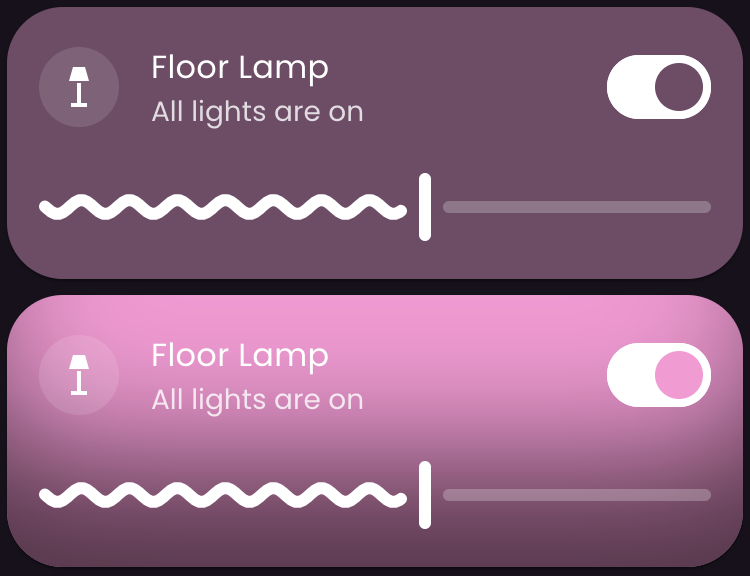
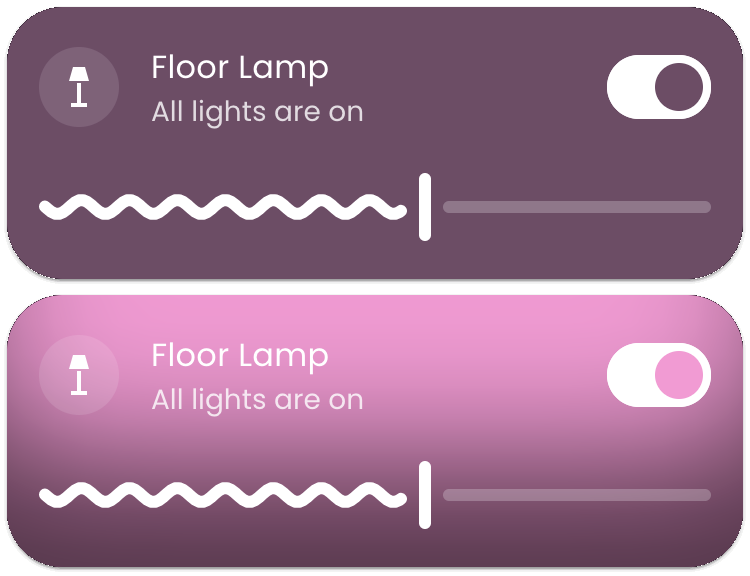
docs: transparent backgrounds for the tint and wavy slider images
The tint and wavy slider screenshots had opaque panel backgrounds. The
light wavy slider animation is now a WebP, so its rounded corners can be
transparent. The tint comparison uses side-by-side images instead of a
table, so GitHub no longer squeezes the right-hand image.

Changed region(s): [[0.0, 0.0, 1.0, 1.0]]

diff --git a/README.md b/README.md
@@ -106,10 +106,13 @@ Every option, including tap and hold actions, colors and scene settings, is in t
 
 `tint` controls how strongly the light color shows on the card.
 
-| `harmonized` (default) | `full` |
-|---|---|
-| <img alt="tint: harmonized" src="https://github.com/m3owmixr/m3-hue-light-card/raw/main/doc/m3-tint-harmonized.png" width="380" /> | <img alt="tint: full" src="https://github.com/m3owmixr/m3-hue-light-card/raw/main/doc/m3-tint-full.png" width="380" /> |
-| Blends the light color into your theme's card color. Brighter lights give a stronger tint. When off, the card uses your theme's normal card color. | The light's colors as they are, like the original Hue-Like card. |
+<p>
+  <img alt="tint: harmonized" src="https://github.com/m3owmixr/m3-hue-light-card/raw/main/doc/m3-tint-harmonized.png" width="400" />
+  <img alt="tint: full" src="https://github.com/m3owmixr/m3-hue-light-card/raw/main/doc/m3-tint-full.png" width="400" />
+</p>
+
+- **`harmonized` (default, left):** blends the light color into your theme's card color. Brighter lights give a stronger tint. When off, the card uses your theme's normal card color.
+- **`full` (right):** the light's colors as they are, like the original Hue-Like card.
 
 ```yaml
 type: custom:m3-hue-light-card
@@ -122,7 +125,7 @@ tint: full
 `slider: wavy` draws the active part of the brightness slider as a gently moving wave, in the M3 Expressive style. The wave stands still when your system's reduced-motion setting is on.
 
 <p>
-  <img alt="slider: wavy in light mode, moving" src="https://github.com/m3owmixr/m3-hue-light-card/raw/main/doc/m3-slider-wavy-light.gif" width="400" />
+  <img alt="slider: wavy in light mode, moving" src="https://github.com/m3owmixr/m3-hue-light-card/raw/main/doc/m3-slider-wavy-light.webp" width="400" />
   <img alt="slider: wavy in dark mode" src="https://github.com/m3owmixr/m3-hue-light-card/raw/main/doc/m3-slider-wavy-dark.png" width="400" />
 </p>
 <p>
